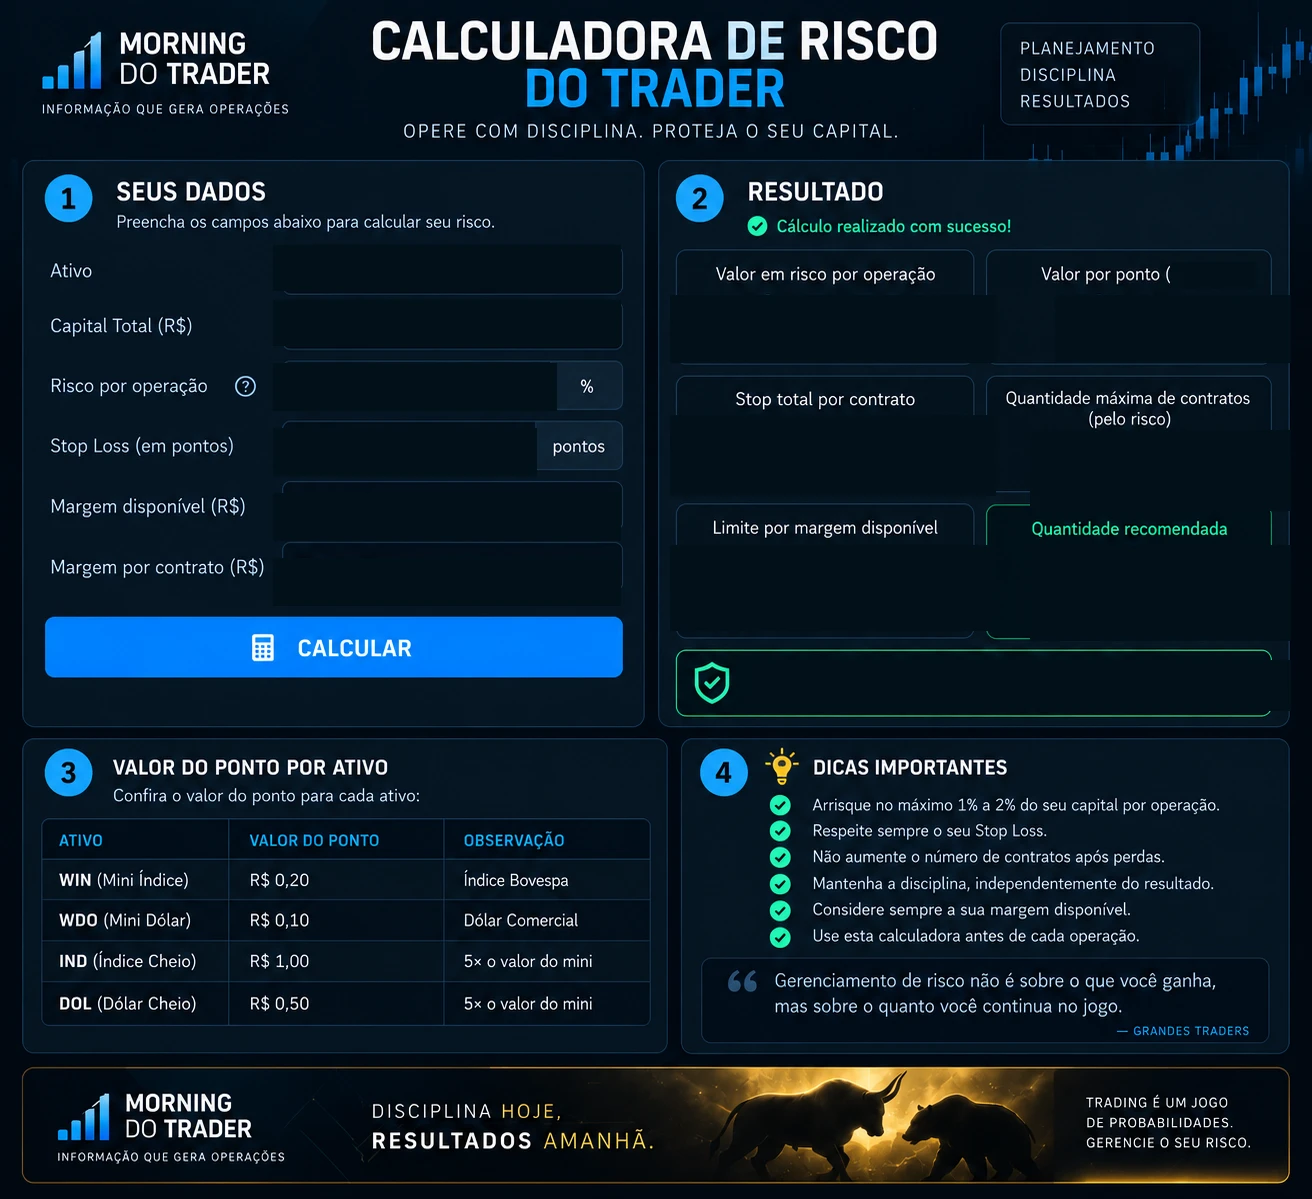
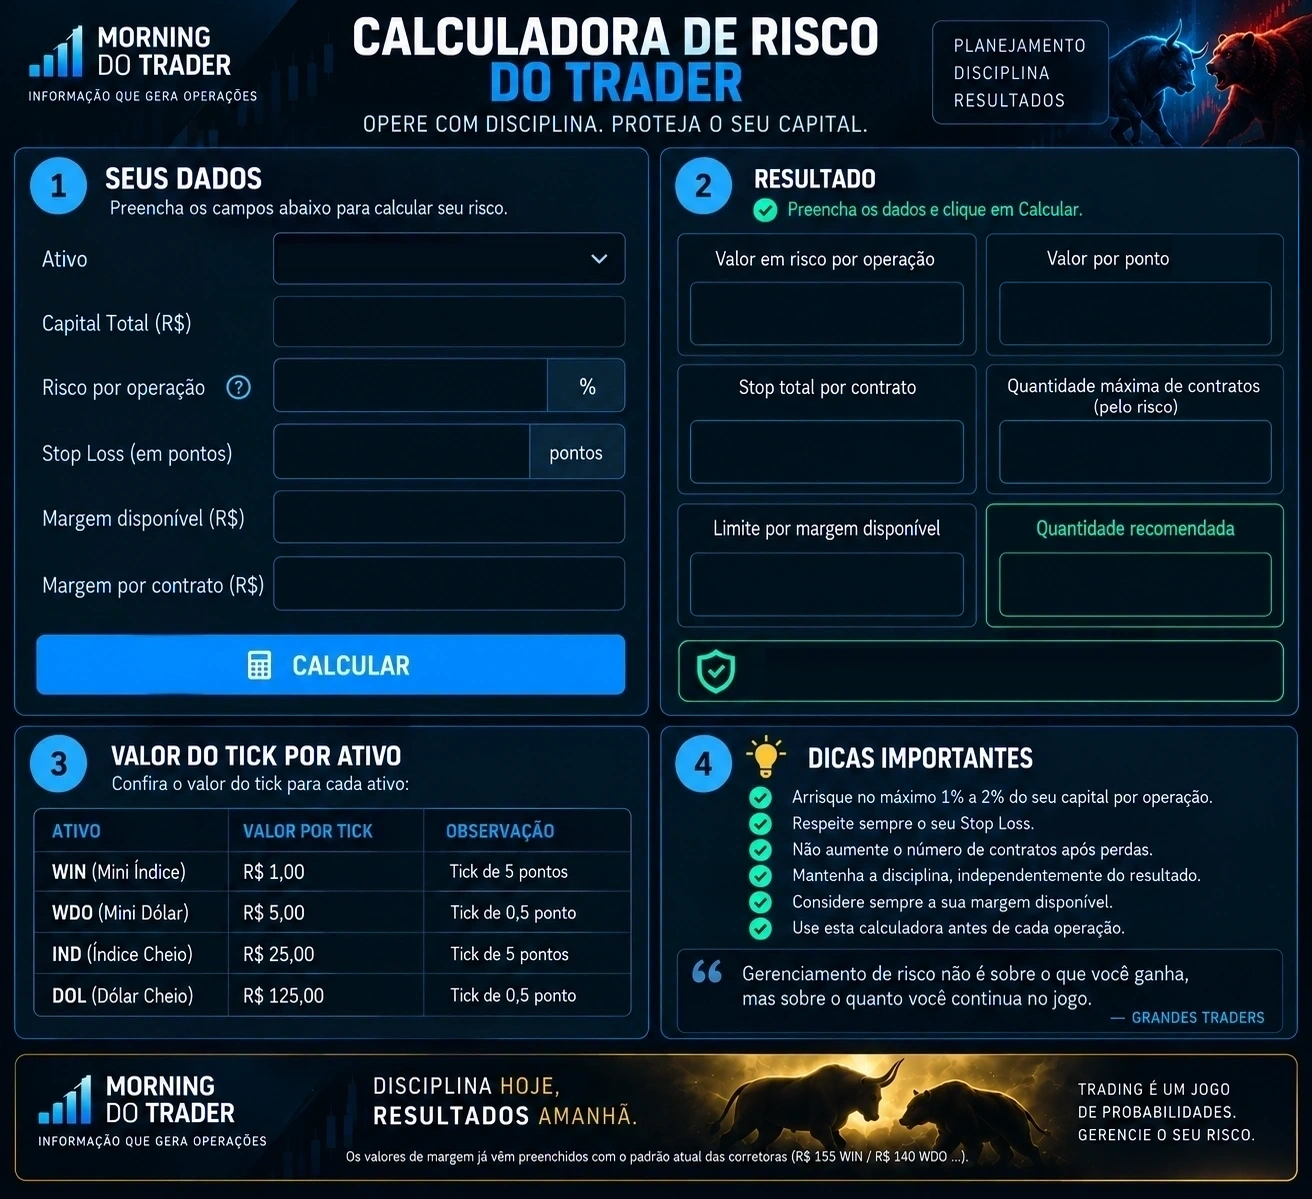
Add files via upload

diff --git a/ferramentas-do-trader.html b/ferramentas-do-trader.html
@@ -713,9 +713,9 @@
   function calcularRisco(){
     const ativo = document.getElementById("riscoAtivo").value;
     const info = ATIVOS_RISCO[ativo];
-    // O "(" já vem desenhado na imagem de fundo logo antes desse span —
-    // por isso aqui só escrevemos o ativo + o fecha-parênteses.
-    document.getElementById("tagAtivoValorPonto").textContent = ativo + ")";
+    // A nova arte de fundo não traz mais "(WIN)" desenhado (evita ficar
+    // preso a um ativo fixo), então aqui escrevemos "(ATIVO)" completo.
+    document.getElementById("tagAtivoValorPonto").textContent = "(" + ativo + ")";
 
     const capital = parseFloat(document.getElementById("riscoCapital").value) || 0;
     const riscoPct = parseFloat(document.getElementById("riscoPercentual").value) || 0;
